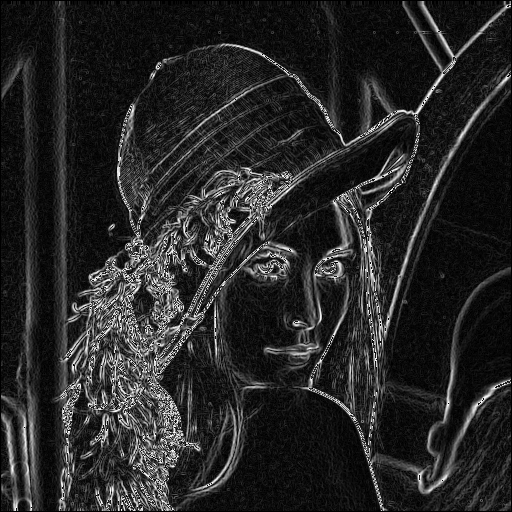
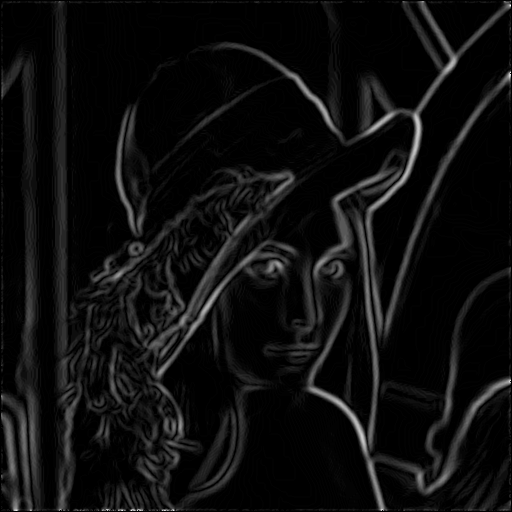
0.2

diff --git a/imgLib/imgTransform.cpp b/imgLib/imgTransform.cpp
@@ -55,7 +55,8 @@ sf::Image imgTransform::transformEdge(int (*filtrx)[3], int (*filtry)[3], sf::Im
 
             int withX = imgTransform::multiplayArray(filtrx,matriX);
             int withY = imgTransform::multiplayArray(filtry,matriX);
-            int r = sqrt(pow(withX,2)+ pow(withY,2));
+            int r = sqrt(pow(withX,2)+ pow(withY,2))-10;
+            r = (r<0)?0:r;
             res.setPixel(i,j,imgTransform::getGreyColor(r));
 
         }
@@ -84,5 +85,41 @@ sf::Image imgTransform::transformEdgeFromGreyLaplacian(sf::Image &src) {
 
 
     return imgTransform::transformEdge(filtrx,filtry,src);
+}
+
+sf::Image imgTransform::filtrGaussowski(sf::Image &src) {
+    int filter[5][5] = {{1,4,7,4,1},{4,16,26,16,4},{7,26,41,26,7},{4,16,26,16,4},{1,4,7,4,1}};
+
+    sf::Image res = src;
+//    res.create(src.getSize().x-2,src.getSize().y-2,sf::Color::Black);
+
+    for (int i = 2; i < src.getSize().x-2; ++i) {
+        for (int j = 2; j < src.getSize().y-2; ++j) {
+            int matriX[5][5] ={{imgTransform::colorToInt(src.getPixel(i-2,j-2)),imgTransform::colorToInt(src.getPixel(i-2,j-1)),imgTransform::colorToInt(src.getPixel(i-2,j)),imgTransform::colorToInt(src.getPixel(i-2,j+1)),imgTransform::colorToInt(src.getPixel(i-2,j+2))},
+                               {imgTransform::colorToInt(src.getPixel(i-1,j-2)),imgTransform::colorToInt(src.getPixel(i-1,j-1)),imgTransform::colorToInt(src.getPixel(i-1,j)),imgTransform::colorToInt(src.getPixel(i-1,j+1)),imgTransform::colorToInt(src.getPixel(i-1,j+2))},
+                               {imgTransform::colorToInt(src.getPixel(i,j-2)),imgTransform::colorToInt(src.getPixel(i,j-1)),imgTransform::colorToInt(src.getPixel(i,j)),imgTransform::colorToInt(src.getPixel(i,j+1)),imgTransform::colorToInt(src.getPixel(i,j+2))},
+                               {imgTransform::colorToInt(src.getPixel(i+1,j-2)),imgTransform::colorToInt(src.getPixel(i+1,j-1)),imgTransform::colorToInt(src.getPixel(i+1,j)),imgTransform::colorToInt(src.getPixel(i+1,j+1)),imgTransform::colorToInt(src.getPixel(i+1,j+2))},
+                               {imgTransform::colorToInt(src.getPixel(i+2,j-2)),imgTransform::colorToInt(src.getPixel(i+2,j-1)),imgTransform::colorToInt(src.getPixel(i+2,j)),imgTransform::colorToInt(src.getPixel(i+2,j+1)),imgTransform::colorToInt(src.getPixel(i+2,j+2))}
+                               };
+
+
+            int r = imgTransform::multiplayArray(filter,matriX);
+            r= abs(r)/273;
+            res.setPixel(i,j,imgTransform::getGreyColor(r));
+
+        }
+    }
+    return res;
+}
+
+int imgTransform::multiplayArray(int (*mask)[5], int (*img)[5]) {
+    int a = 0;
+    for(int i = 0;i<5;i++)
+    {
+        for (int j = 0; j < 5; ++j) {
+            a+=mask[i][j]*img[i][j];
+        }
+    }
+    return a;
 }
 

diff --git a/imgLib/imgTransform.hpp b/imgLib/imgTransform.hpp
@@ -12,11 +12,13 @@ public:
     static sf::Image transformEdgeFromGreySobel(sf::Image &src);
     static sf::Image transformEdgeFromGreyPrewitts(sf::Image &src);
     static sf::Image transformEdgeFromGreyLaplacian(sf::Image &src);
+    static sf::Image filtrGaussowski(sf::Image &src);
 private:
     static sf::Color colorToGrey(sf::Color src);
     static sf::Color getGreyColor(int x);
     static int  colorToInt(sf::Color src);
     static int multiplayArray(int mask[3][3],int img[3][3]);
+    static int multiplayArray(int mask[5][5],int img[5][5]);
     static sf::Image transformEdge(int filtrx[3][3], int filtry[3][3], sf::Image &src);
 };
 

diff --git a/main.cpp b/main.cpp
@@ -4,6 +4,13 @@ int main() {
     sf::Image base;
     base.loadFromFile("../test.png");
     sf::Image res1 = imgTransform::toGrey(base);
+    res1 = imgTransform::filtrGaussowski(res1);
+    res1 = imgTransform::filtrGaussowski(res1);
+    res1 = imgTransform::filtrGaussowski(res1);
+    res1 = imgTransform::filtrGaussowski(res1);
+    res1 = imgTransform::filtrGaussowski(res1);
+    res1 = imgTransform::filtrGaussowski(res1);
+    res1.saveToFile("../res.png");
    sf::Image res = imgTransform::transformEdgeFromGreyPrewitts(res1);
     res.saveToFile("../resPrewitts.png");
     res = imgTransform::transformEdgeFromGreySobel(res1);
